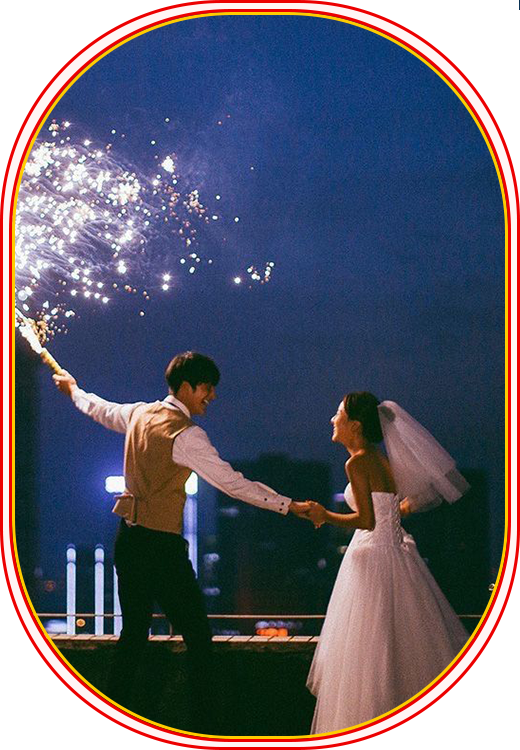
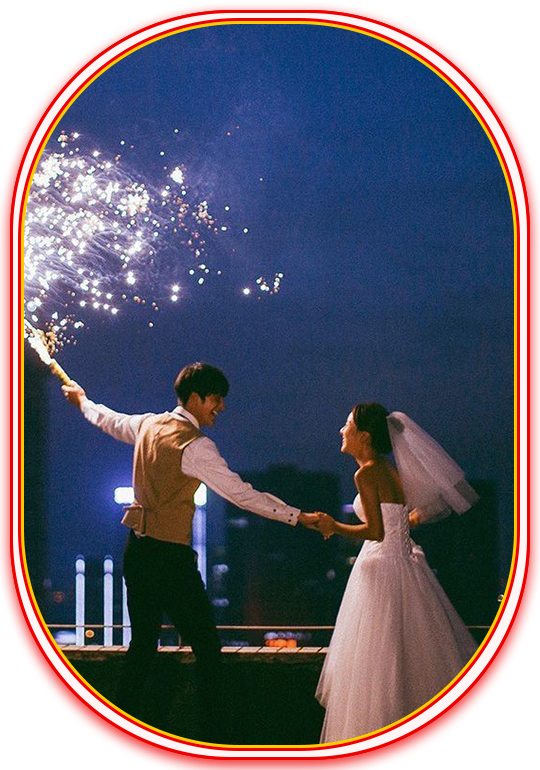
[FEAT] modify imgs on section4

diff --git a/src/main/webapp/main/main.css b/src/main/webapp/main/main.css
@@ -12,6 +12,7 @@ body {
   height: 100vh;
 }
 
+/* ////////// ////////// ////////// ////////// ////////// ////////// */
 /* Section 1 */
 #yj-main-s1 {
   background-image: url("imgFolder/yj-main-default-bg.png");
@@ -89,6 +90,7 @@ body {
   }
 }
 
+/* ////////// ////////// ////////// ////////// ////////// ////////// */
 /* Section 2 */
 #yj-main-s2 {
   z-index: 1;
@@ -101,8 +103,8 @@ body {
   width: 150px;
   height: 150px;
   position: absolute;
-  top: 3rem;
-  left: 4rem;
+  top: 4rem;
+  left: 5rem;
 }
 
 .yj-main-s2-logo img {
@@ -127,7 +129,7 @@ body {
   width: 80px;
   height: 80px;
   position: absolute;
-  top: 3rem;
+  top: 6rem;
   right: 5rem;
 }
 
@@ -192,6 +194,7 @@ body {
   top: 0;
 }
 
+/* ////////// ////////// ////////// ////////// ////////// ////////// */
 /* Section 3 */
 #yj-main-s3 {
   background-image: url("imgFolder/yj-main-default-bg.png");
@@ -203,8 +206,8 @@ body {
   width: 150px;
   height: 150px;
   position: absolute;
-  top: 3rem;
-  left: 4rem;
+  top: 4rem;
+  left: 5rem;
 }
 
 .yj-main-s3-logo img {
@@ -222,6 +225,20 @@ body {
   50% {
     transform: translate(0, 5%);
   }
+}
+
+.yj-main-s3-menu {
+  z-index: 4;
+  width: 80px;
+  height: 80px;
+  position: absolute;
+  top: 6rem;
+  right: 5rem;
+}
+
+.yj-main-s3-menu img {
+  width: 100%;
+  height: 100%;
 }
 
 .yj-main-s3-img {
@@ -282,6 +299,7 @@ body {
   }
 }
 
+/* ////////// ////////// ////////// ////////// ////////// ////////// */
 /* Section 4 */
 #yj-main-s4 {
   z-index: 1;
@@ -292,6 +310,46 @@ body {
   height: 100vh; /*Viewport의 높이를 100%로 설정 */
   position: relative; /* position을 relative로 설정 */
   overflow: hidden;
+}
+
+.yj-main-s4-logo {
+  z-index: 4;
+  width: 150px;
+  height: 150px;
+  position: absolute;
+  top: 4rem;
+  left: 4rem;
+}
+
+.yj-main-s4-logo img {
+  width: 100%;
+  height: 100%;
+  /* animation */
+  animation: logo-float 2s ease-in-out infinite;
+}
+
+@keyframes logo-float {
+  0%,
+  100% {
+    transform: translate(0, 0%);
+  }
+  50% {
+    transform: translate(0, 5%);
+  }
+}
+
+.yj-main-s4-menu {
+  z-index: 4;
+  width: 80px;
+  height: 80px;
+  position: absolute;
+  top: 6rem;
+  right: 5rem;
+}
+
+.yj-main-s4-menu img {
+  width: 100%;
+  height: 100%;
 }
 
 .yj-main-s4-cover {
@@ -322,18 +380,33 @@ body {
 .yj-main-s4-container img {
   max-width: 100%; /* Ensures images don't exceed their container width */
   height: auto; /* Maintains aspect ratio */
+  /* animation */
+  animation: imgs-float 2s ease-in-out infinite;
 }
 
+@keyframes imgs-float {
+  0%,
+  100% {
+    transform: translate(0, 0%);
+  }
+  50% {
+    transform: translate(0, 2%);
+  }
+}
+
+/* ////////// ////////// ////////// ////////// ////////// ////////// */
 /* Section 5 */
 #yj-main-s5 {
-  background-color: #faf865;
+  background-image: url("imgFolder/yj-main-default-bg.png ");
 }
 
+/* ////////// ////////// ////////// ////////// ////////// ////////// */
 /* Section 6 */
 #yj-main-s6 {
   background-color: #9e65fa;
 }
 
+/* ////////// ////////// ////////// ////////// ////////// ////////// */
 /* Section 7 */
 #yj-main-s7 {
   background-color: #fa65e1;

diff --git a/src/main/webapp/main/main.js b/src/main/webapp/main/main.js
@@ -38,22 +38,23 @@ document.addEventListener("wheel", function (event) {
   }
 });
 
+// ////////// ////////// ////////// ////////// ////////// //////////
 // Section 2
 // 메뉴 버튼 클릭 이벤트
-const menuBtn = document.getElementById("yj-main-s2-menuBtn");
-const menuBtn1 = "imgFolder/yj-main-default-menu1.png";
-const menuBtn2 = "imgFolder/yj-main-default-menu2.png";
+const s2menuBtn = document.getElementById("yj-main-s2-menuBtn");
+const s2menuBtn1 = "imgFolder/yj-main-default-menu1.png";
+const s2menuBtn2 = "imgFolder/yj-main-default-menu2.png";
 
 // 메뉴 이미지 클릭 이벤트 리스너 등록
-menuBtn.addEventListener("click", function () {
+s2menuBtn.addEventListener("click", function () {
   // 현재 이미지 src 확인
   const currentSrc = this.querySelector("img").src;
 
   // 이미지 변경
-  if (currentSrc.includes(menuBtn1)) {
-    this.querySelector("img").src = menuBtn2;
+  if (currentSrc.includes(s2menuBtn1)) {
+    this.querySelector("img").src = s2menuBtn2;
   } else {
-    this.querySelector("img").src = menuBtn1;
+    this.querySelector("img").src = s2menuBtn1;
   }
 });
 
@@ -131,4 +132,44 @@ $(document).ready(function () {
         .attr("src");
       $("#currentSlideImage").attr("src", currentSlideImage);
     });
+});
+
+// ////////// ////////// ////////// ////////// ////////// //////////
+// Section 3
+// 메뉴 버튼 클릭 이벤트
+const s3menuBtn = document.getElementById("yj-main-s3-menuBtn");
+const s3menuBtn1 = "imgFolder/yj-main-default-menu1.png";
+const s3menuBtn2 = "imgFolder/yj-main-default-menu2.png";
+
+// 메뉴 이미지 클릭 이벤트 리스너 등록
+s3menuBtn.addEventListener("click", function () {
+  // 현재 이미지 src 확인
+  const currentSrc = this.querySelector("img").src;
+
+  // 이미지 변경
+  if (currentSrc.includes(s3menuBtn1)) {
+    this.querySelector("img").src = s3menuBtn2;
+  } else {
+    this.querySelector("img").src = s3menuBtn1;
+  }
+});
+
+// ////////// ////////// ////////// ////////// ////////// //////////
+// Section 4
+// 메뉴 버튼 클릭 이벤트
+const s4menuBtn = document.getElementById("yj-main-s4-menuBtn");
+const s4menuBtn1 = "imgFolder/yj-main-default-menu1.png";
+const s4menuBtn2 = "imgFolder/yj-main-default-menu2.png";
+
+// 메뉴 이미지 클릭 이벤트 리스너 등록
+s4menuBtn.addEventListener("click", function () {
+  // 현재 이미지 src 확인
+  const currentSrc = this.querySelector("img").src;
+
+  // 이미지 변경
+  if (currentSrc.includes(s4menuBtn1)) {
+    this.querySelector("img").src = s4menuBtn2;
+  } else {
+    this.querySelector("img").src = s4menuBtn1;
+  }
 });

diff --git a/src/main/webapp/main/main.html b/src/main/webapp/main/main.html
@@ -87,6 +87,11 @@
       <div class="yj-main-s3-logo">
         <img src="imgFolder/yj-main-default-logo.png" alt="섹션3 logo" />
       </div>
+
+      <div class="yj-main-s3-menu" id="yj-main-s3-menuBtn">
+        <img src="imgFolder/yj-main-default-menu1.png" alt="섹션3 menu1" />
+      </div>
+
       <div class="yj-main-s3-img">
         <img
           id="currentSlideImage"
@@ -94,6 +99,7 @@
           alt="Current Slide"
         />
       </div>
+
       <div class="yj-main-s3-scroll" alt="섹션3 scroll">
         <div class="s3-scroll-line"></div>
         <div class="s3-scroll-arrow"></div>
@@ -102,9 +108,18 @@
 
     <!-- Section 4 -->
     <div class="yj-main-section" id="yj-main-s4">
+      <div class="yj-main-s4-logo">
+        <img src="imgFolder/yj-main-default-logo.png" alt="섹션4 logo" />
+      </div>
+
+      <div class="yj-main-s4-menu" id="yj-main-s4-menuBtn">
+        <img src="imgFolder/yj-main-default-menu1.png" alt="섹션4 menu1" />
+      </div>
+
       <div class="yj-main-s4-cover">
         <img src="imgFolder/yj-main-s4-cover.png" alt="섹션4 커버" />
       </div>
+
       <div class="yj-main-s4-flexContainer">
         <div class="yj-main-s4-container" id="item10to4">
           <img src="imgFolder/yj-main-s4-img10.png" alt="섹션4 리스트img10" />
